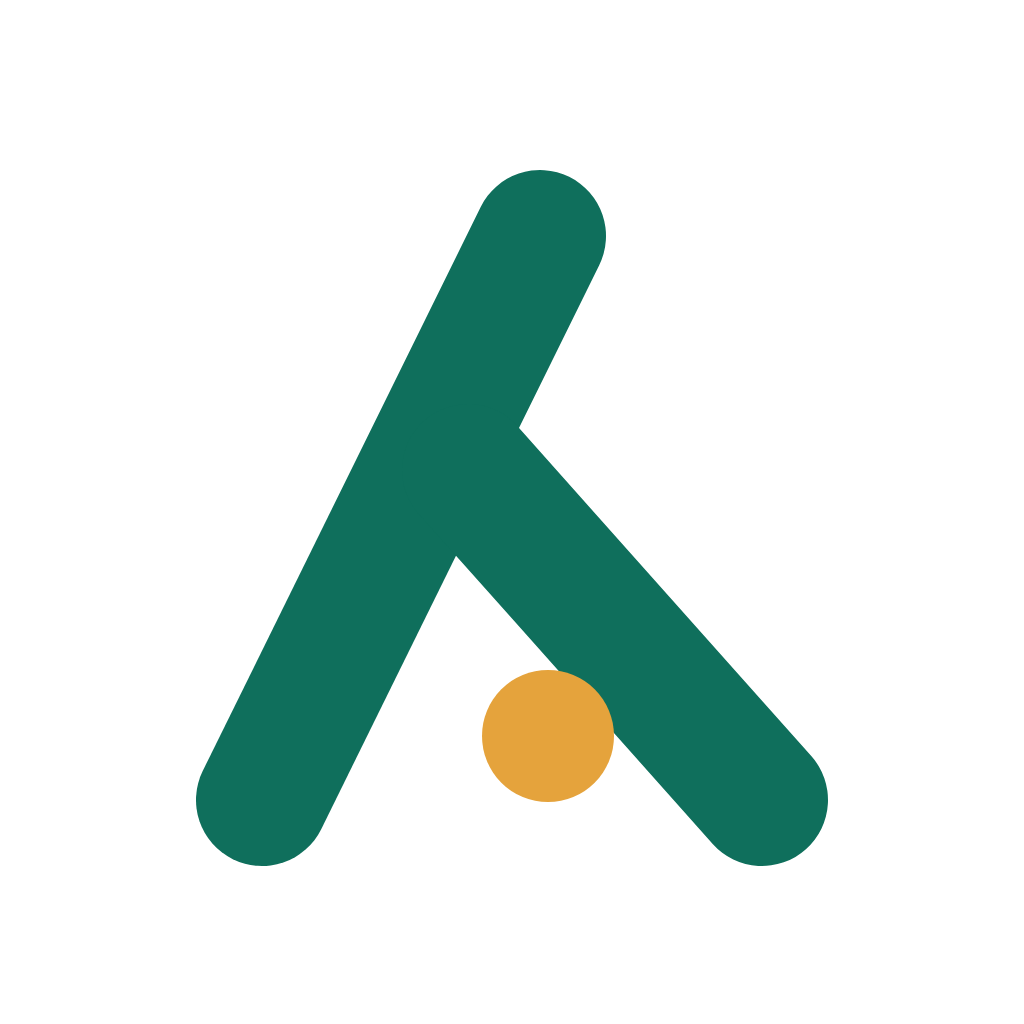
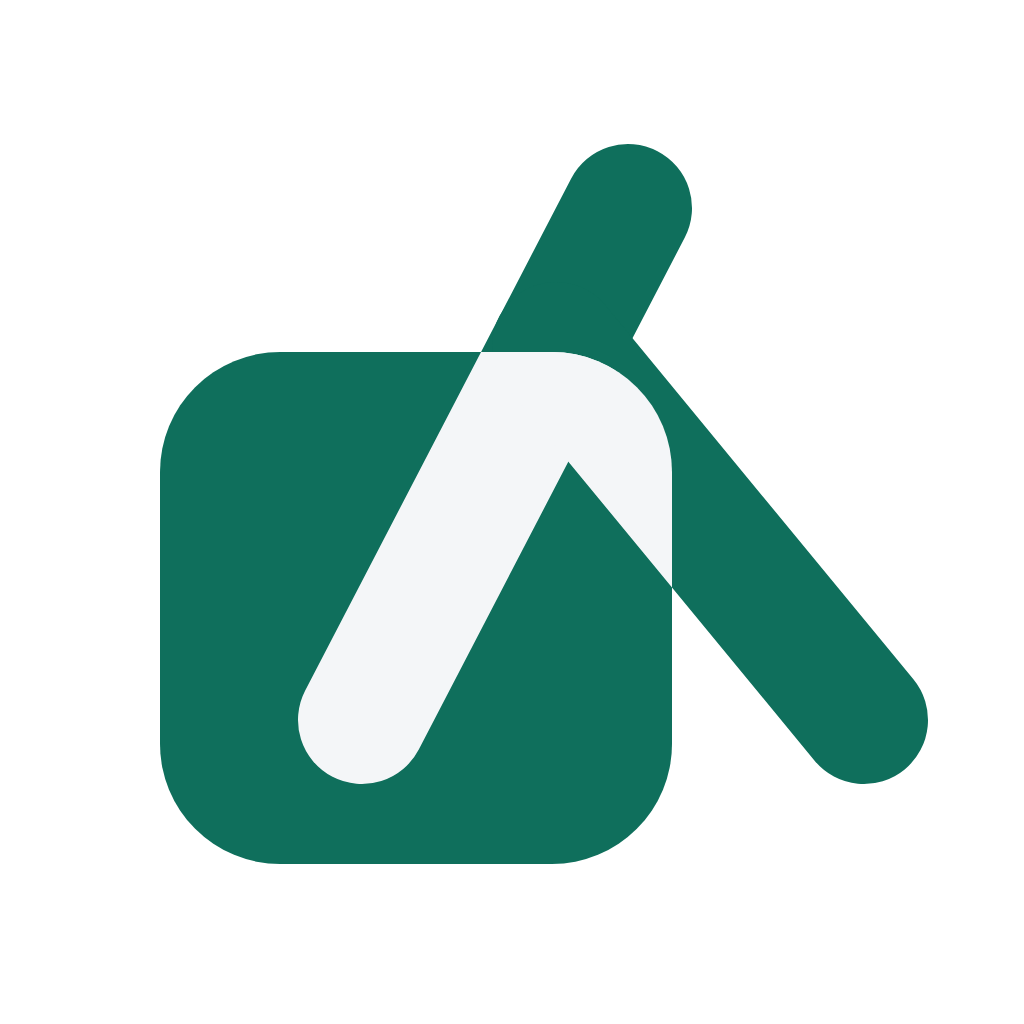
feat(brand): ㅁ-over-ㅅ knockout monogram
The two jamo of 소문 split the meaning: ㅁ is what was built, ㅅ is the word
that spreads from it. The mark is ㅅ draped over ㅁ, with the overlap knocked
out to paper so both forms sit in one tone. Fixed grid (stroke 128/1024,
box 512, radius 120), no ornament. Tile, paper variant, lockup, sheet.

Changed region(s): [[0.2812, 0.125, 0.9062, 0.8438], [0.1562, 0.3438, 0.4062, 0.8125], [0.2188, 0.8125, 0.25, 0.8438]]

diff --git a/docs/brand/BRAND.md b/docs/brand/BRAND.md
@@ -25,16 +25,19 @@
 
 한 줄: **지어내지 않는 편집자.**
 
-## 4. 상징 — 캐럿과 점
+## 4. 상징 — ㅁ 위로 ㅅ
 
-이름 **소문**의 첫 자모 **ㅅ**이 상징이다. 세 가지 뜻이 한 형태에 겹친다.
+이름 **소문**의 두 자모가 뜻을 나눠 갖는다.
 
-1. **사람(人)** — 마주 서서 말을 건네는 두 획. 소문은 입에서 입으로 간다.
-2. **캐럿(^)** — 교정지에서 "여기에 넣어라"를 뜻하는 편집 표식. 소문의 정체성은 편집자다.
-3. **갈래** — 한 점에서 두 갈래로 퍼지는 모양. 소문이 번지는 길.
+- **ㅁ** — 만든 것. 상자, 저장소, 결과물. 꽉 찬 둥근 사각.
+- **ㅅ** — 말. 사람(人)이 마주 서서 말을 건네는 두 획, 교정지의 캐럿(^) "여기에 넣어라", 소문이 퍼지는 갈래.
 
-캐럿 아래에 **점 하나**를 둔다. 초안에 들어가는 "사실 하나, 숫자 하나"다.
-마크는 이 둘, 획 두 개와 점 하나로 끝난다. 더하지 않는다.
+마크는 **ㅁ 위로 ㅅ이 걸쳐 나가는** 모노그램이다. 만든 것에서 말이 번진다.
+ㅁ 안쪽에 들어온 ㅅ은 종이색으로 반전(녹아웃)해 한 톤에서 두 형태가 짜인다.
+점·파문·그림자 같은 장식은 없다. 형태 둘, 색 하나.
+
+격자: 1024 기준. 획 128, ㅁ 512×512, 모서리 반지름 120. ㅅ의 오른획은 한글 구조대로 왼획 중간에서 갈라진다.
+검토 후 버린 방향: 캐럿+점(2026-09-21 초안), S 리플, 워드마크 "소", 테두리 변주(`alt-frame.svg`).
 
 ## 5. 색
 
@@ -57,14 +60,14 @@
 - **마크 단독**: 투명 배경 PNG/SVG. 앱 아이콘, 파비콘, 아바타.
 - **타일**: 둥근 사각형 잉크 바탕에 종이색 마크. 앱 스토어·OS 아이콘처럼 배경이 필요한 곳.
 - **가로 결합**: 마크 + `소문` + `somun`. 랜딩, 문서 머리.
-- 최소 크기 16px. 그 아래에서는 점을 빼고 캐럿만 쓴다.
+- 최소 크기 16px. 반전 부분이 뭉개지면 타일 버전을 쓴다.
 - 마크를 기울이거나, 그림자·광택을 더하거나, 다른 색으로 칠하지 않는다. 단색(잉크 또는 종이)으로만 쓴다.
 
 ## 8. 파일
 
 | 파일 | 용도 |
 |---|---|
-| `mark.svg` | 마크 원본 (잉크색, 투명) |
+| `mark.svg` | 마크 원본 (잉크색, 안쪽 반전은 종이색, 투명 배경) |
 | `mark-paper.svg` | 마크 (종이색, 어두운 배경·타일용) |
 | `icon-1024.png` | 앱 아이콘, 투명 배경 RGBA |
 | `tile-1024.png` | 타일 아이콘 (배경 있음) |
